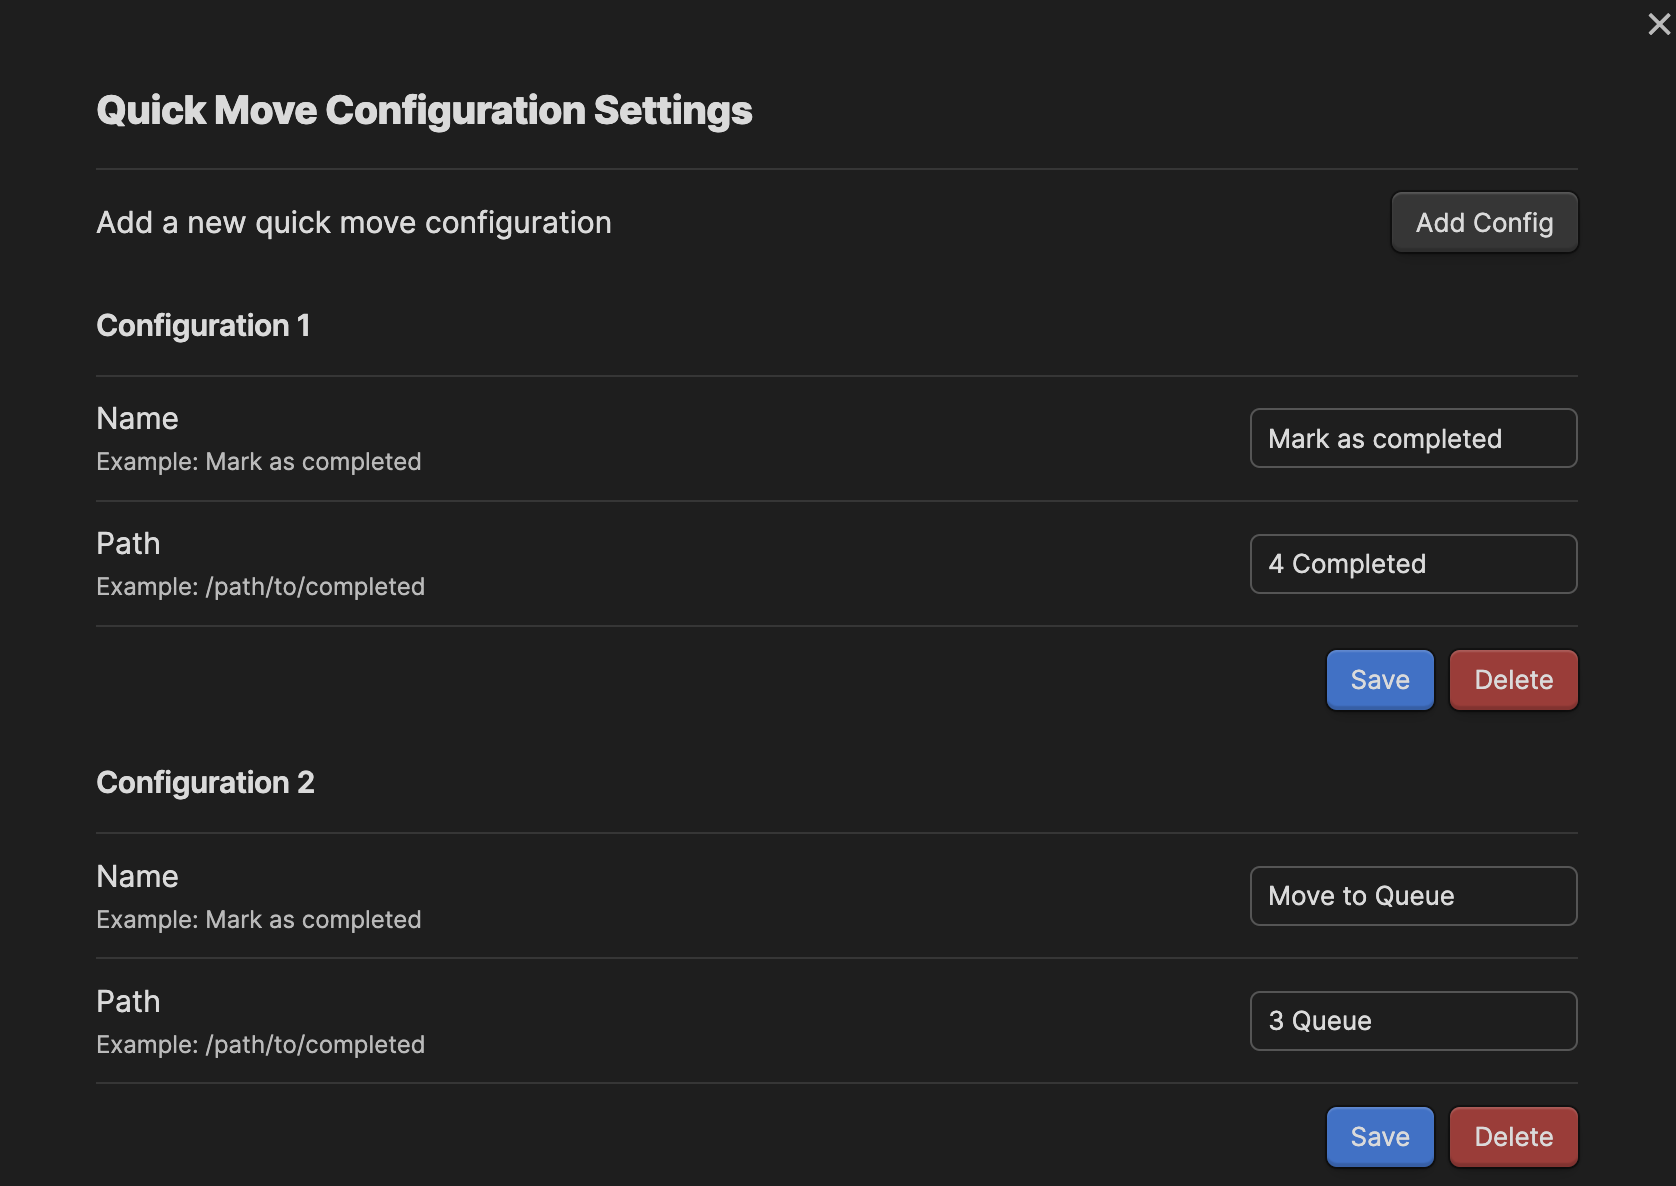
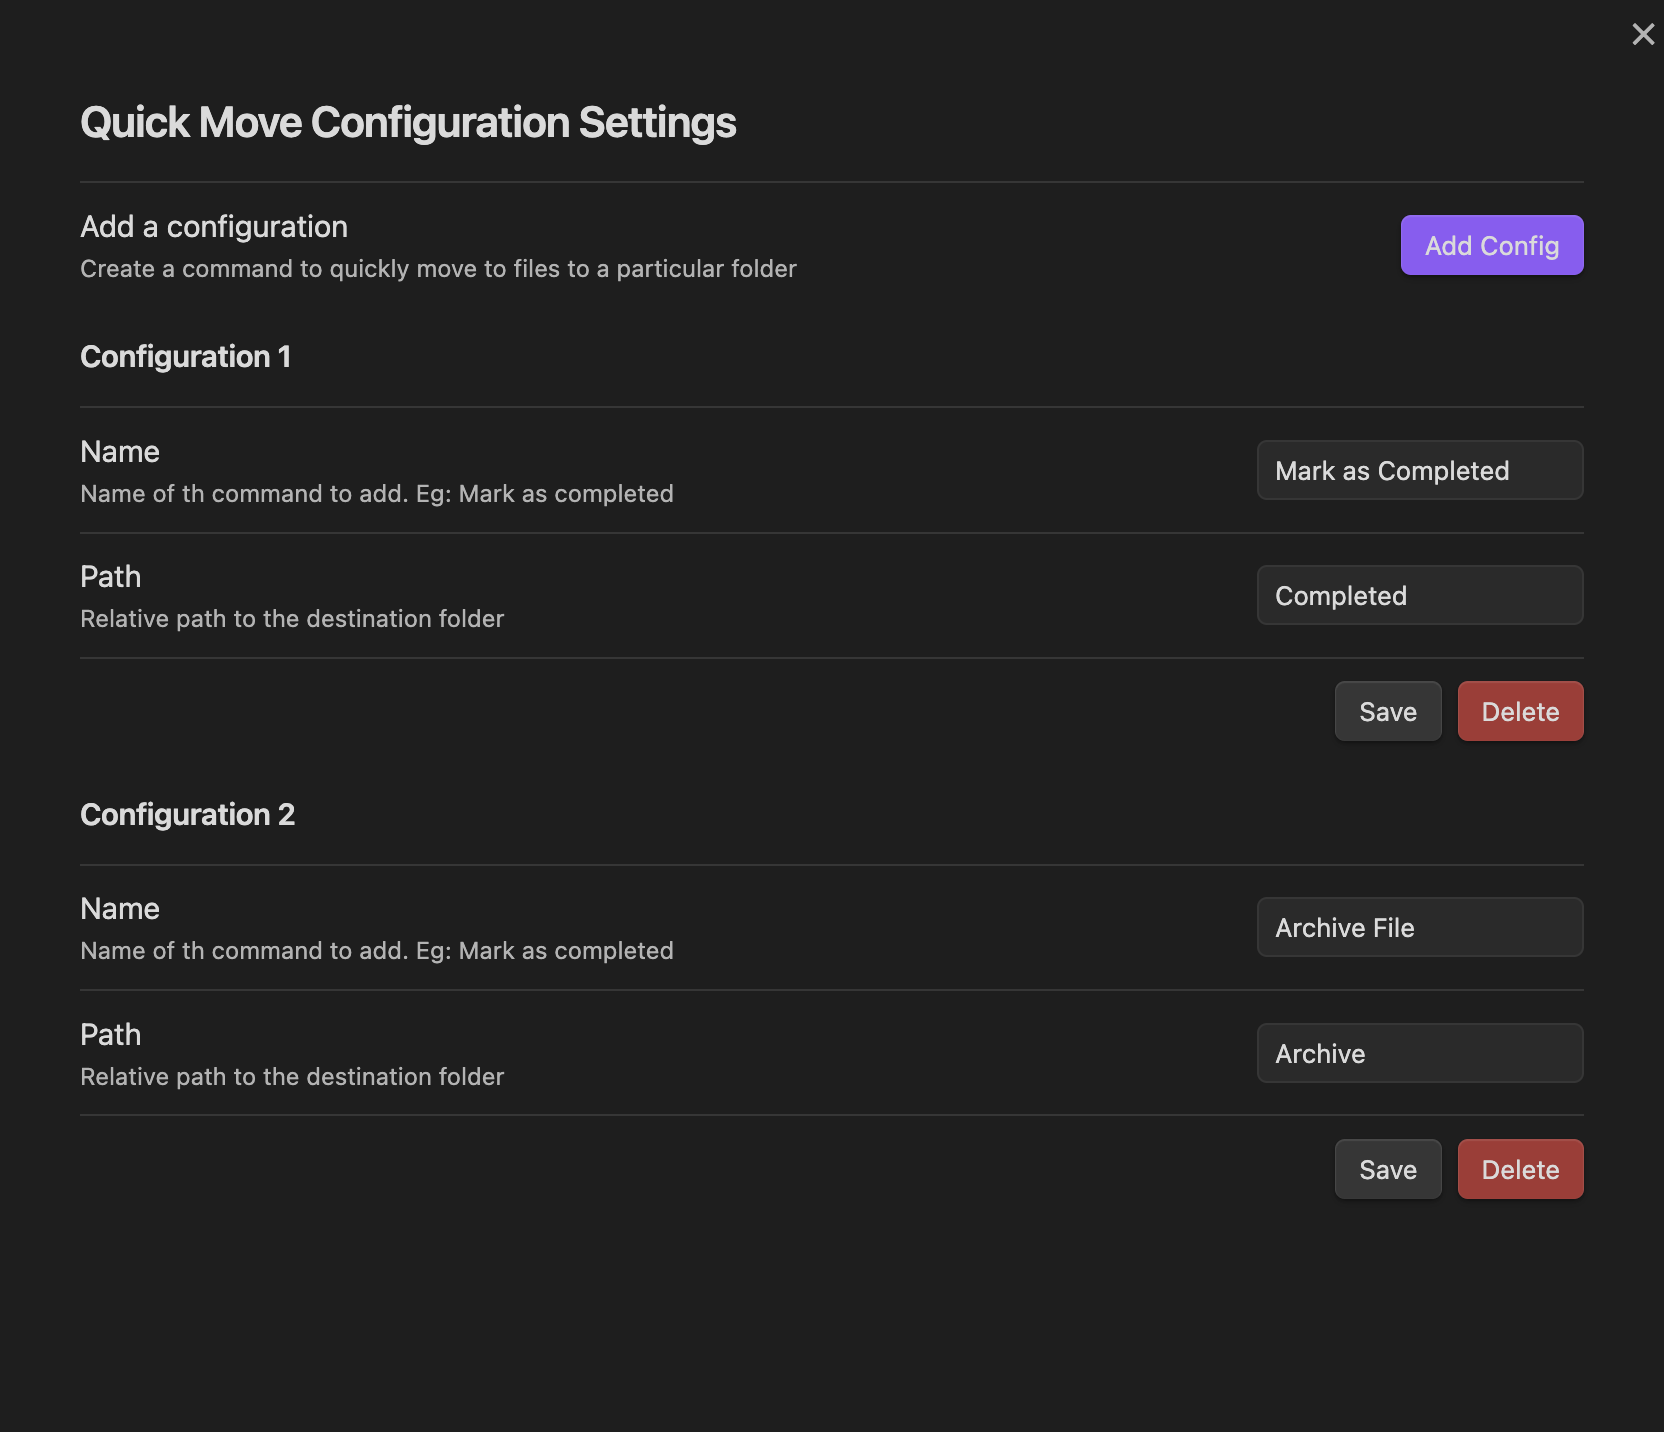
css changes and update readme

diff --git a/main.ts b/main.ts
@@ -175,8 +175,7 @@ class MoveFileSettingTab extends PluginSettingTab {
 
 				const setting = new Setting(containerEl).addButton((button) => {
 					button
-						.setClass("save-btn")
-						.setButtonText("Create")
+						.setButtonText("Save")
 						.onClick(async () => {
 							
 							// Remove configuraiton if exists

diff --git a/README.md b/README.md
@@ -4,7 +4,8 @@ The Obsidian Quick Move Plugin allows you to quickly move notes to a specified f
 
 ## Features
 
-- Configure a target folder in the settings.
+- Configure a custom name and target folder for custom command.
+- Add multiple configurations.
 - Use a command to instantly move the current note to the configured folder.
 - Streamline your workflow by organizing notes efficiently.
 
@@ -23,15 +24,18 @@ This plugin is particularly useful if you have a workflow where you move notes t
 1. Open the settings page.
 2. Navigate to the Quick Move Plugin settings.
 3. Click `Add Configuration' to add a new configuration
-4. Set your desired name and target folder 
+4. Set your desired name and target folder for your command. 
 5. Click 'Save'
 
-![Settinsg page](/media/command_palette.png "Optional Title")
+![Settinsg page](/media/settings_page.png "Custom Commands")
+You can add multile configuration according to your workflow!
 
 ## Usage
 
 1. Open the note you want to move.
 2. Invoke the Quick Move command from the command palette.
 3. The note will be moved to the configured folder.
+
+![Settinsg page](/media/command_palette.png "Custom Commands")
 
 Enjoy a more organized and efficient note-taking experience with the Obsidian Quick Move Plugin!
